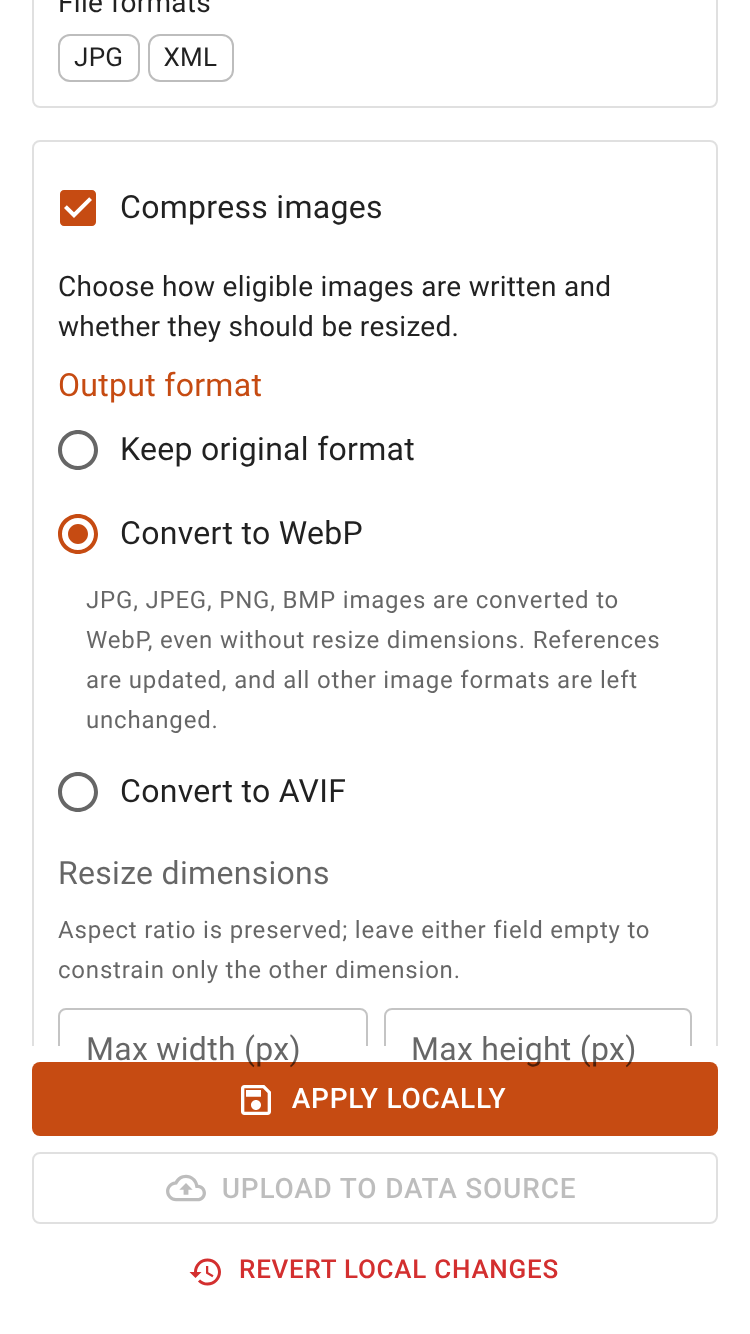
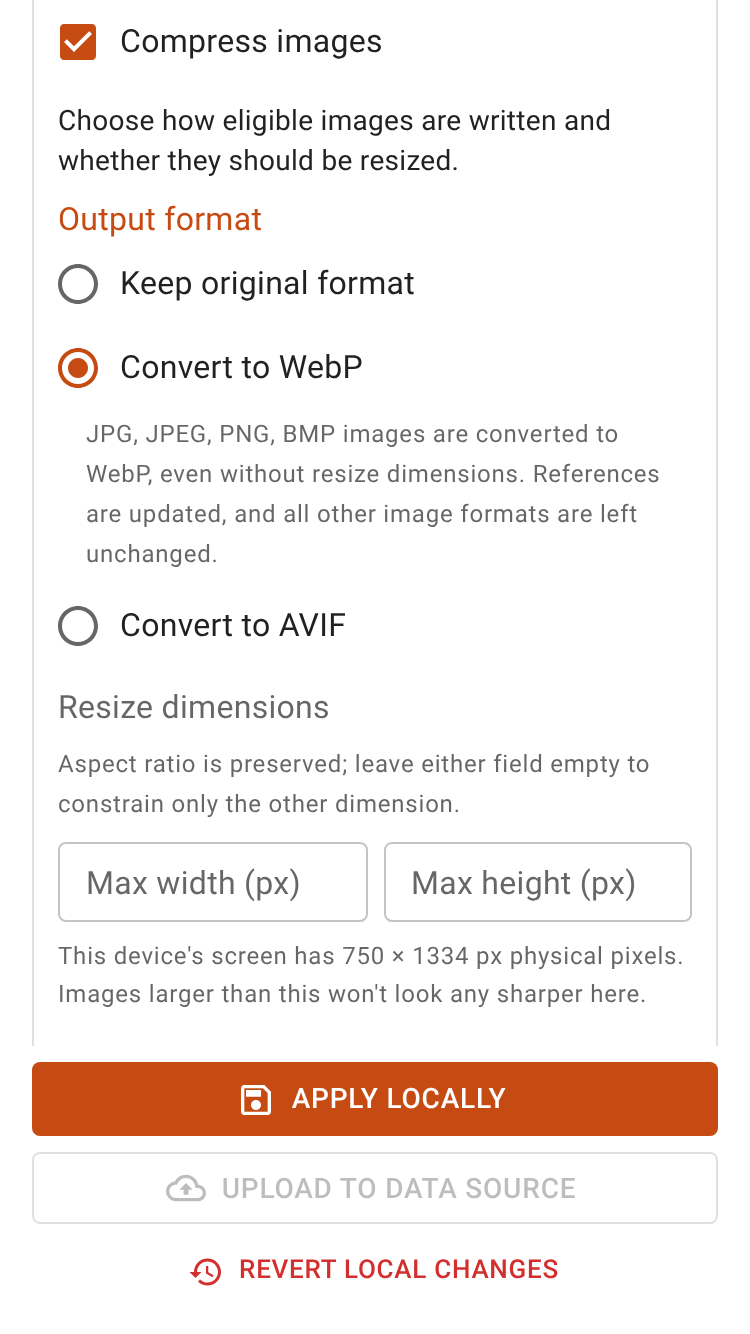
test(e2e): frame the Optimize screenshots on what they show
optimize-content now starts at the image compression option, instead of
where Playwright's scroll left it. optimize-metadata starts at the
tabs: above them, the stack's data source shows an alert that it cannot
upload a book back, next to landing copy about saving back to the
source.

The docs list the KOReader screens with the profile as images that show
the account's e-mail, which changes on every run.

Claude-Session: https://claude.ai/code/session_01BvSDyHDR2VFH8ziSVjcpWJ

diff --git a/apps/e2e/tests/screenshots/scenes.spec.ts b/apps/e2e/tests/screenshots/scenes.spec.ts
@@ -193,6 +193,12 @@ const SCENES = {
       await expect(page.getByText("Content report")).toBeVisible()
       await page.getByRole("checkbox", { name: "Compress images" }).check()
       await page.getByRole("radio", { name: "Convert to WebP" }).check()
+      await page
+        .getByText("Compress images", { exact: true })
+        .locator("..")
+        .evaluate(function alignCompressionOptionToTop(option) {
+          option.scrollIntoView({ block: "start" })
+        })
     },
   },
   "optimize-metadata": {
@@ -201,6 +207,11 @@ const SCENES = {
       await page.getByRole("tab", { name: "Metadata" }).click()
       await page.getByRole("link", { name: /^Fix metadata in file/ }).click()
       await expect(page.getByText("Metadata report")).toBeVisible()
+      // The stack's data source cannot upload a book back, and an alert above
+      // the tabs says so.
+      await page.getByRole("tablist").evaluate(function alignTabsToTop(tabs) {
+        tabs.scrollIntoView({ block: "start" })
+      })
     },
   },
   "koreader-sync-server": {

diff --git a/apps/e2e/src/fixtures.ts b/apps/e2e/src/fixtures.ts
@@ -10,8 +10,8 @@ export type SignUpInvitation = {
 }
 
 /**
- * Unique among the accounts of one stack, and short enough for the profile
- * screenshot to show it on one line.
+ * Unique among the accounts of one stack, and short enough to fit on one line
+ * in the screenshots that show it.
  */
 function newReaderEmail() {
   return `reader-${randomBytes(4).toString("hex")}@oboku.test`

diff --git a/apps/docs/src/content/docs/development/end-to-end-tests.md b/apps/docs/src/content/docs/development/end-to-end-tests.md
@@ -92,7 +92,7 @@ Each target signs up a new account, syncs and downloads the server library, read
 
 On the same machine, a run gives the same images as the run before, except for what the stack cannot fix:
 
-- The profile shows the email of the account, which each run creates with a new address.
+- The profile and both KOReader screens show the email of the account, which each run creates with a new address.
 - The data sources screen shows the day of the last sync, which the API records.
 - The KOReader sync server screen shows the password the API generates.
 - The storage screen shows the browser's estimate of the space the machine has, and lists the books in no fixed order.
